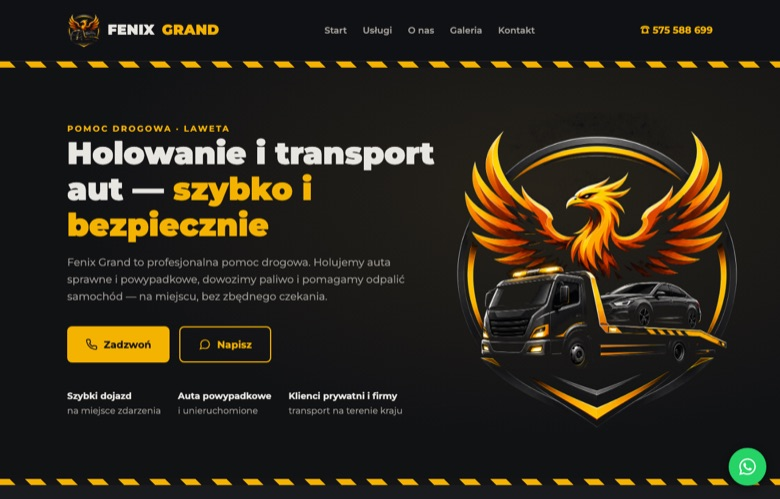
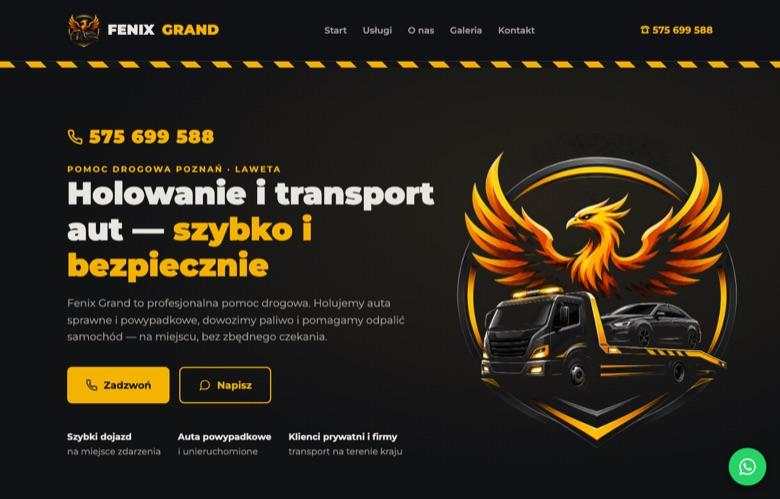
Portfolio: Fenix online — link + świeży zrzut z pomoc-drogowa-fenix.pl

diff --git a/index.html b/index.html
@@ -453,7 +453,7 @@
             <h3>Fenix — Pomoc drogowa</h3>
             <div class="tag">Landing page</div>
             <p>Jednostronicowy landing dla usług lawety i pomocy drogowej z szybkim kontaktem.</p>
-            <a class="link" href="#" target="_blank" rel="noopener">Wkrótce online <span class="ar">→</span></a>
+            <a class="link" href="https://pomoc-drogowa-fenix.pl" target="_blank" rel="noopener">Zobacz stronę <span class="ar">→</span></a>
           </div>
         </article>
         <article class="work reveal">